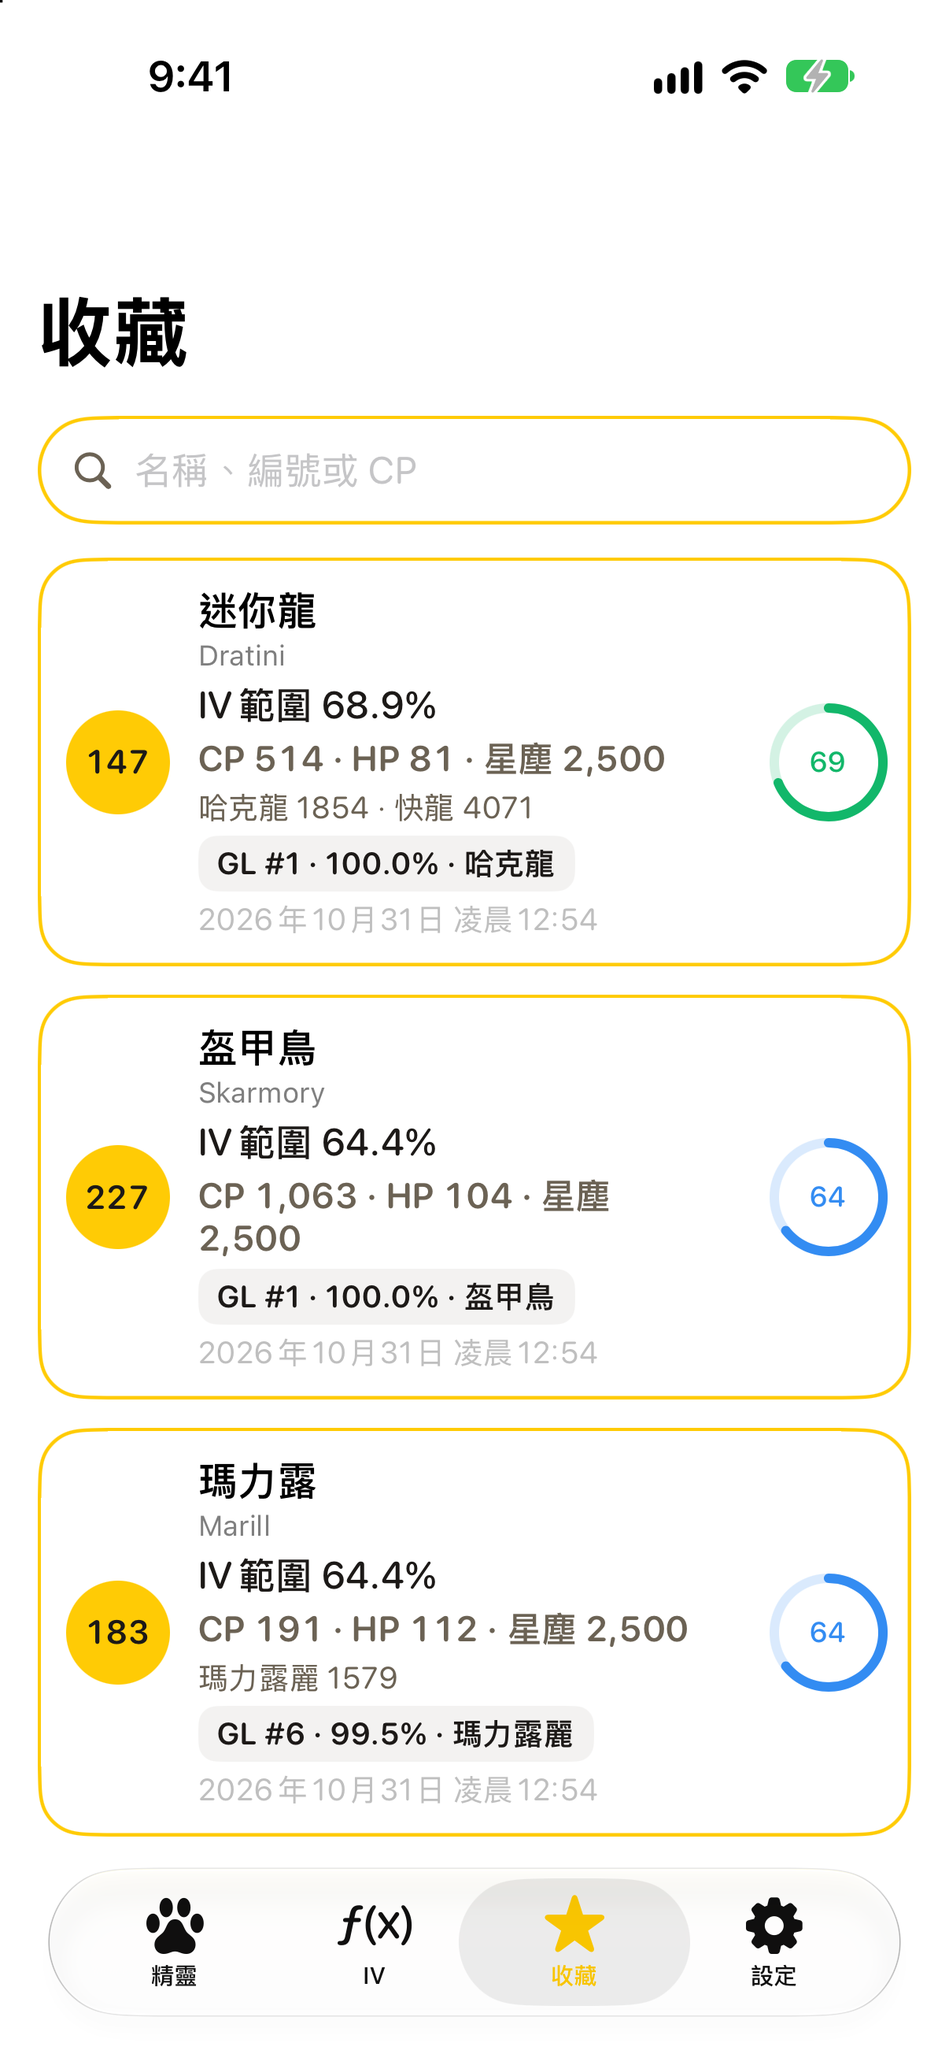
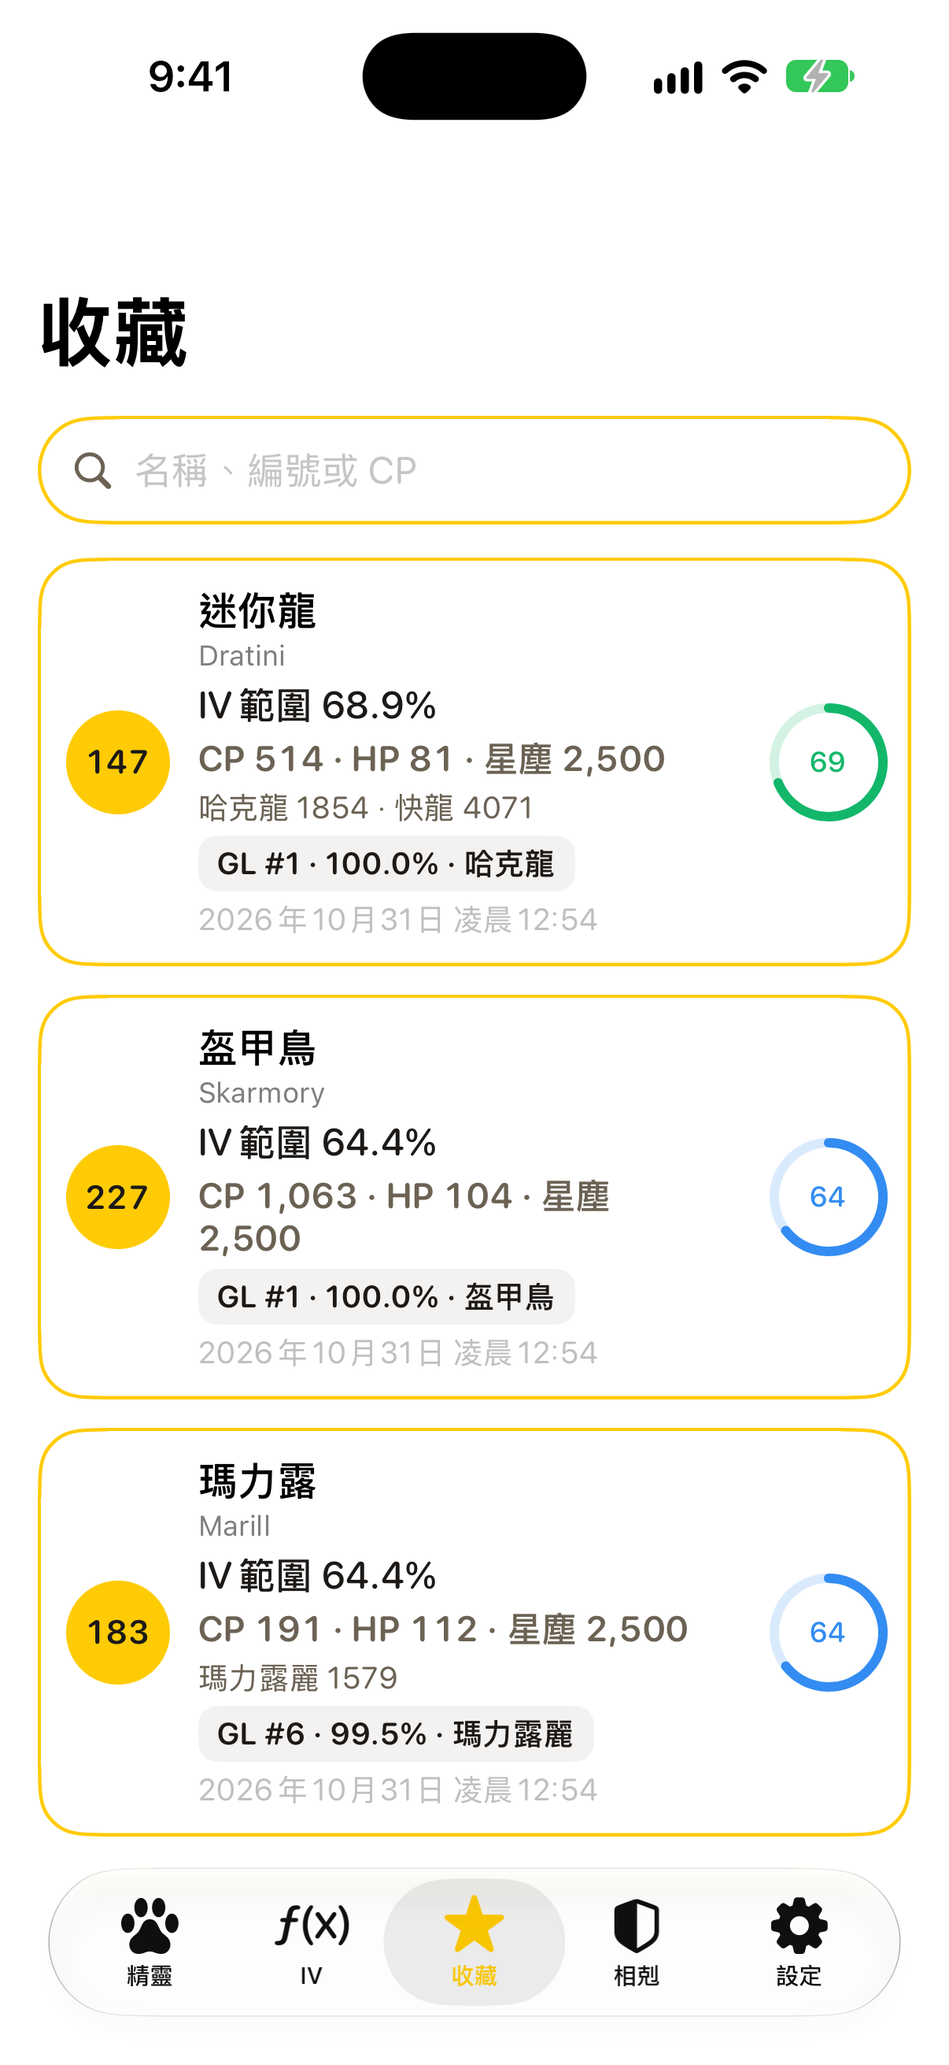
官網配合 1.3.0：相剋分頁、屬性圖示與五個 Tab
介紹頁與操作手冊新增相剋分頁（查對手、我的隊伍）與屬性圖示說明，Tab 改為五個；
隱私權頁補相剋分頁的原生廣告與對戰隊伍只存在裝置；store/ 與 manual/ 截圖換成 1.3.0 版型。

diff --git a/index.html b/index.html
@@ -125,18 +125,19 @@
       <h2>產品介紹</h2>
       <ul>
         <li><strong>摘要截圖</strong>：一次一張。讀得到名稱、CP、HP 與強化星塵就直接顯示結果，等級 41 以上（強化星塵 11,000 起）與強化過的半級也算得出來。圖裡缺這些資料時會提示錯誤，不會寫進歷史。</li>
-        <li><strong>四個 Tab</strong>：底部是「精靈」（圖鑑）、「IV」、「收藏」、「設定」。圖示分別是足跡、函數、星星與齒輪。</li>
+        <li><strong>五個 Tab</strong>：底部是「精靈」（圖鑑）、「IV」、「收藏」、「相剋」、「設定」。圖示分別是足跡、函數、星星、盾牌與齒輪。</li>
         <li><strong>圖鑑</strong>：用編號、中文或英文名搜尋，點牌卡看三圍、屬性、進化、技能，以及各等級 CP、HP。進化後等級 50 的最大 CP、HP 只作參考。圖鑑資料可從 Firebase Storage 的 <code>catalog/species.json</code> 更新；離線時用 App 內建備份。</li>
         <li><strong>訓練師等級</strong>：可選，在 IV 頁左上角或「設定」分頁調整。用來對齊摘要上的等級範圍，不進入 CP 公式。沒設定時，同一組星塵仍可能對應多個等級。</li>
         <li><strong>結果</strong>：百分比環、攻擊／防禦／體力 IV、等級滑桿與下一步建議。可開啟好夥伴加成，看該等級加成後的 CP、HP。範圍很寬時圓環會顯示「?」。</li>
         <li><strong>PvP</strong>：結果頁列出小小盃、超級、高級、大師聯盟的名次（Rank）與佔 Rank 1 的百分比，進化鏈每一階都算。點一組 IV 可看最佳等級、CP、實際攻擊，以及養到該等級需要的星塵、糖果與 XL 糖果，也能一鍵複製改名字串。收藏牌卡會標出最佳名次。</li>
+        <li><strong>相剋</strong>：對戰時查屬性。「查對手」選 1–2 個屬性或搜尋名字，看該用什麼打、別用什麼、牠的招式剋誰；「我的隊伍」每個聯盟存 3 隻，一眼看到每隻的弱點與抗性。屬性都附上圖示，水、冰、龍這類相似屬性也好分辨。</li>
         <li><strong>設定</strong>：PvP 等級上限（40／50／51）、IV 保底、預設聯盟、改名格式與訓練師等級。</li>
-        <li><strong>本機資料</strong>：歷史只存辨識結果與相簿識別碼，<strong>不存截圖檔</strong>。收藏只存你點下的那一組 IV。</li>
-        <li><strong>廣告</strong>：IV 頁在「幫精靈評價」下方可能出現原生廣告，結果頁底部可能有橫幅。圖鑑與收藏第一層沒有廣告。第一次會問相簿權限；廣告可能再問追蹤許可（ATT），拒絕後改為非個人化。細節見<a href="privacy.html">隱私權</a>。</li>
+        <li><strong>本機資料</strong>：歷史只存辨識結果與相簿識別碼，<strong>不存截圖檔</strong>。收藏只存你點下的那一組 IV。對戰隊伍只存種類與招式選擇。</li>
+        <li><strong>廣告</strong>：IV 頁在「幫精靈評價」下方可能出現原生廣告，結果頁底部可能有橫幅，相剋分頁最下方可能有一張原生廣告。圖鑑與收藏第一層、設定沒有廣告。第一次會問相簿權限；廣告可能再問追蹤許可（ATT），拒絕後改為非個人化。細節見<a href="privacy.html">隱私權</a>。</li>
       </ul>
 
       <h2>操作手冊</h2>
-      <p>下面的圖鑑、IV、結果與收藏是不含遊戲內畫面的介面示意。選圖權限、訓練師等級、PvP 與設定是模擬器畫面。實機字級可能略有不同。</p>
+      <p>下面的圖鑑、IV、結果與收藏是不含遊戲內畫面的介面示意。選圖權限、訓練師等級、PvP、相剋與設定是模擬器畫面。實機字級可能略有不同。</p>
       <nav class="toc" aria-label="手冊目次">
         <ol>
           <li><a href="#zh-dex">圖鑑</a></li>
@@ -144,21 +145,22 @@
           <li><a href="#zh-trainer">訓練師等級</a></li>
           <li><a href="#zh-results">結果與收藏</a></li>
           <li><a href="#zh-pvp">PvP 名次與改名</a></li>
+          <li><a href="#zh-matchup">相剋</a></li>
           <li><a href="#zh-settings">設定</a></li>
           <li><a href="#zh-history">歷史與相簿排除</a></li>
         </ol>
       </nav>
 
       <h3 id="zh-dex">1. 圖鑑</h3>
-      <p>點底部「精靈」。搜尋框可填編號、中文或英文名。點一列進入詳細頁，可看三圍、屬性、進化鏈、技能，並用滑桿看各等級的 CP、HP 範圍。進化後等級 50 的最大 CP、HP 標在進化區，只供對照。圖鑑頁不計算 IV，也沒有廣告。</p>
+      <p>點底部「精靈」。搜尋框可填編號、中文或英文名。點一列進入詳細頁，可看三圍、屬性與相剋、進化鏈、技能，並用滑桿看各等級的 CP、HP 範圍。進化後等級 50 的最大 CP、HP 標在進化區，只供對照。圖鑑頁不計算 IV，也沒有廣告。</p>
       <div class="manual-shots-row">
         <figure class="manual-shot">
           <img src="store/asc-zh-pokedex.jpg" width="402" height="874" alt="用編號或名字找：精靈圖鑑列表">
           <figcaption>圖鑑列表：用編號或名字找。</figcaption>
         </figure>
         <figure class="manual-shot">
-          <img src="store/asc-zh-detail.jpg" width="402" height="874" alt="看三圍、最高 CP 和屬性">
-          <figcaption>詳細頁：三圍、最高 CP／HP 與屬性。</figcaption>
+          <img src="store/asc-zh-detail.jpg" width="402" height="874" alt="看技能與屬性相剋">
+          <figcaption>詳細頁：技能與屬性相剋，屬性都有圖示。</figcaption>
         </figure>
       </div>
 
@@ -225,14 +227,27 @@
         <figcaption>收藏：牌卡標出最佳名次。</figcaption>
       </figure>
 
-      <h3 id="zh-settings">6. 設定</h3>
+      <h3 id="zh-matchup">6. 相剋</h3>
+      <p>點底部「相剋」。「查對手」選對手的 1–2 個屬性，或在上方搜尋名字（也可打英文名或編號），下方會列出該用什麼屬性打（倍率越高越好）、別用哪些屬性，以及牠自己屬性的招式剋誰。「我的隊伍」每個聯盟存一組 3 隻，卡片列出每隻的弱點、抗性與招式屬性；可在收藏長按、或結果頁 PvP 區塊加入。查對手時若有隊員會被剋，也會一起提示。</p>
+      <div class="manual-shots-row">
+        <figure class="manual-shot">
+          <img src="manual/manual-matchup-opponent-zh.png" width="402" height="874" alt="相剋分頁：查對手，選了水與地面">
+          <figcaption>查對手：水＋地面要用草打，別用電、火、毒、岩石、鋼。</figcaption>
+        </figure>
+        <figure class="manual-shot">
+          <img src="manual/manual-matchup-team-zh.png" width="402" height="874" alt="相剋分頁：我的隊伍">
+          <figcaption>我的隊伍：每隻的弱點、抗性與招式屬性。</figcaption>
+        </figure>
+      </div>
+
+      <h3 id="zh-settings">7. 設定</h3>
       <p>點底部「設定」。等級上限決定排名時最多養到幾級：40 不用 XL 糖果，50 用 XL 糖果，51 是正港好夥伴再加 1 級。IV 保底排除不可能出現的組合，例如團體戰、孵蛋、研究的 IV 至少是 10。預設聯盟決定結果頁與收藏先顯示哪一個聯盟。這些設定會同時套用到結果頁與收藏。</p>
       <figure class="manual-shot">
         <img src="manual/manual-settings-zh.png" width="402" height="874" alt="設定分頁">
         <figcaption>設定分頁：等級上限、IV 保底、預設聯盟、改名格式。</figcaption>
       </figure>
 
-      <h3 id="zh-history">7. 歷史與相簿排除</h3>
+      <h3 id="zh-history">8. 歷史與相簿排除</h3>
       <ul>
         <li>計算成功後，這張照片的相簿識別碼會記在歷史。下次開選圖格，<strong>同一張摘要會被隱藏</strong>。</li>
         <li>在 IV 頁左滑可刪一筆歷史。右上角垃圾桶會先詢問，再清除全部歷史，<strong>不會刪收藏</strong>。刪掉之後，那張照片會重新出現在選圖格。</li>
@@ -246,18 +261,19 @@
       <h2>About the app</h2>
       <ul>
         <li><strong>One screenshot</strong>: If the name, CP, HP, and power-up stardust are readable, the result opens immediately, including level 41 and up (11,000 stardust and more) and powered-up half levels. A missing value shows an error and is not saved to history.</li>
-        <li><strong>Four tabs</strong>: Dex, IV, Saved, and Settings. The icons are a paw, a function, a star, and a gear.</li>
+        <li><strong>Five tabs</strong>: Dex, IV, Saved, Matchups, and Settings. The icons are a paw, a function, a star, a shield, and a gear.</li>
         <li><strong>Dex</strong>: Search by number or name, then open a page for base stats, type, evolution, moves, and CP/HP by level. Level-50 max CP and HP after evolution are reference figures. Catalog data can refresh from Firebase Storage (<code>catalog/species.json</code>) and uses the copy bundled in the app when offline.</li>
         <li><strong>Trainer level</strong>: Optional, set on the IV tab or in Settings. It lines up the level range on the summary and is not part of the CP formula. With it unset, one stardust cost can still match more than one level.</li>
         <li><strong>Results</strong>: A percent ring, attack / defense / HP IVs, a level slider, and a next step. Buddy boost shows that level’s boosted CP and HP. A wide range shows “?” in the ring.</li>
         <li><strong>PvP</strong>: Results list the rank and percent of rank 1 in Little Cup, Great, Ultra, and Master League for every evolution stage. Tap an IV set to see its best level, CP, attack, and the Stardust, Candy, and XL Candy needed to get there, and copy a nickname in one tap. Saved cards show the best rank.</li>
+        <li><strong>Matchups</strong>: Check types during a battle. In Opponent, pick one or two types or search a name to see what hits it hard, what to avoid, and what its own moves hit. In My Team, save three members per league and see each one’s weaknesses and resistances at a glance. Every type has an icon, so similar types such as Water, Ice, and Dragon are easy to tell apart.</li>
         <li><strong>Settings</strong>: PvP level cap (40 / 50 / 51), IV floor, default league, nickname format, and trainer level.</li>
-        <li><strong>On this device</strong>: History stores the reading and a photo identifier, <strong>not the image file</strong>. Saved stores only the IV set you starred.</li>
-        <li><strong>Ads</strong>: The IV tab may show a native ad under Appraise, and the results screen may show a banner. The Dex list, Dex detail, and Saved list do not. The app asks for photo access, and ads may ask for tracking permission (ATT); declining uses non-personalized ads. Details are on the <a href="privacy.html">Privacy</a> page.</li>
+        <li><strong>On this device</strong>: History stores the reading and a photo identifier, <strong>not the image file</strong>. Saved stores only the IV set you starred. Battle teams store only the species and move choices.</li>
+        <li><strong>Ads</strong>: The IV tab may show a native ad under Appraise, and the results screen may show a banner, and the bottom of the Matchups tab may show one native ad. The Dex list, Dex detail, Saved list, and Settings do not. The app asks for photo access, and ads may ask for tracking permission (ATT); declining uses non-personalized ads. Details are on the <a href="privacy.html">Privacy</a> page.</li>
       </ul>
 
       <h2>User guide</h2>
-      <p>The Dex, IV, results, and Saved pictures are interface mockups with no in-game artwork. The photo-permission, trainer-level, PvP, and Settings pictures are simulator screens. Type size may differ on a device.</p>
+      <p>The Dex, IV, results, and Saved pictures are interface mockups with no in-game artwork. The photo-permission, trainer-level, PvP, Matchups, and Settings pictures are simulator screens. Type size may differ on a device.</p>
       <nav class="toc" aria-label="Guide contents">
         <ol>
           <li><a href="#en-dex">Dex</a></li>
@@ -265,6 +281,7 @@
           <li><a href="#en-trainer">Trainer level</a></li>
           <li><a href="#en-results">Results and Saved</a></li>
           <li><a href="#en-pvp">PvP ranks and nicknames</a></li>
+          <li><a href="#en-matchup">Matchups</a></li>
           <li><a href="#en-settings">Settings</a></li>
           <li><a href="#en-history">History and the photo grid</a></li>
         </ol>
@@ -278,8 +295,8 @@
           <figcaption>Catalog: find an entry by number or name.</figcaption>
         </figure>
         <figure class="manual-shot">
-          <img src="store/asc-en-detail.jpg" width="402" height="874" alt="See base stats, max CP, and type">
-          <figcaption>Detail: base stats, max CP, and type.</figcaption>
+          <img src="store/asc-en-detail.jpg" width="402" height="874" alt="See moves and type matchups">
+          <figcaption>Details: moves and type matchups, with an icon for every type.</figcaption>
         </figure>
       </div>
 
@@ -346,14 +363,27 @@
         <figcaption>Saved: each card shows the best rank.</figcaption>
       </figure>
 
-      <h3 id="en-settings">6. Settings</h3>
+      <h3 id="en-matchup">6. Matchups</h3>
+      <p>Open the Matchups tab. In Opponent, pick one or two of the opponent’s types, or search a name at the top (English name or number also works). Below you see which types hit it hard (higher is better), which to avoid, and what moves of its own types hit. In My Team, save a team of three for each league; each card lists weaknesses, resistances, and move types. Add members from a saved entry’s long-press menu or the PvP section of a result. When an opponent hits one of your members hard, the lookup says so.</p>
+      <div class="manual-shots-row">
+        <figure class="manual-shot">
+          <img src="manual/manual-matchup-opponent-en.png" width="402" height="874" alt="Matchups tab: Opponent with Water and Ground picked">
+          <figcaption>Opponent: hit Water + Ground with Grass; avoid Electric, Fire, Poison, Rock, and Steel.</figcaption>
+        </figure>
+        <figure class="manual-shot">
+          <img src="manual/manual-matchup-team-en.png" width="402" height="874" alt="Matchups tab: My Team">
+          <figcaption>My Team: weaknesses, resistances, and move types for each member.</figcaption>
+        </figure>
+      </div>
+
+      <h3 id="en-settings">7. Settings</h3>
       <p>Open the Settings tab. The level cap is how far a set is powered up when ranking: 40 uses no XL Candy, 50 uses XL Candy, and 51 adds the Best Buddy level. The IV floor leaves out sets that cannot occur, such as raid, egg, and research Pokémon, which have at least 10 in each IV. The default league is the one results and Saved show first. These settings apply to both results and Saved.</p>
       <figure class="manual-shot">
         <img src="manual/manual-settings-en.png" width="402" height="874" alt="Settings tab">
         <figcaption>Settings: level cap, IV floor, default league, and nickname format.</figcaption>
       </figure>
 
-      <h3 id="en-history">7. History and the photo grid</h3>
+      <h3 id="en-history">8. History and the photo grid</h3>
       <ul>
         <li>After a successful calculation, that photo’s library identifier is stored. The same summary is <strong>hidden in the picker grid</strong> the next time you choose a picture.</li>
         <li>Swipe a history row to delete it. The trash button asks first, then clears all history and <strong>does not delete Saved</strong>. After either deletion, that photo shows in the grid again.</li>

diff --git a/privacy.html b/privacy.html
@@ -77,16 +77,16 @@
       <h2>截圖與暫存記憶體</h2>
       <p>您選擇的精靈摘要截圖僅用於當次上傳與辨識流程，處理期間保留在裝置記憶體中；離開該流程或關閉相關畫面後即釋放，本 App 不會將照片存入相簿或長期儲存空間。</p>
       <h2>歷史紀錄</h2>
-      <p>本機歷史僅保存辨識與計算結果（例如種類、CP、HP、IV 組合等），<strong>不保存</strong>摘要截圖影像。</p>
+      <p>本機歷史僅保存辨識與計算結果（例如種類、CP、HP、IV 組合等），<strong>不保存</strong>摘要截圖影像。相剋分頁的對戰隊伍只保存種類與招式選擇，同樣只留在您的裝置。</p>
       <h2>圖鑑資料（Firebase Storage）</h2>
       <p>物種名稱與三圍等<strong>數值 JSON</strong>會從 Firebase Storage（bucket：<code>goiv-app.firebasestorage.app</code>）下載以支援計算。該資料不含角色圖或官方立繪，本 App 也不從外部圖庫載入圖片。</p>
       <h2>當機報告（Firebase Crashlytics）</h2>
       <p>Firebase Crashlytics 只收集<strong>未捕捉的當機</strong>與除錯資訊，協助修復穩定性問題。不會上傳螢幕截圖，也不會將 CP、HP、種類寫進自訂紀錄。</p>
       <h2>廣告（Google AdMob）</h2>
-      <p>IV 頁在「幫精靈評價」下方可能顯示原生廣告，結果頁底部可能顯示橫幅廣告。圖鑑第一層、圖鑑詳細頁與收藏第一層沒有廣告。App 會先透過 Apple 的 App Tracking Transparency 詢問追蹤許可；若您拒絕，廣告請求將以<strong>非個人化</strong>方式處理。</p>
+      <p>IV 頁在「幫精靈評價」下方可能顯示原生廣告，結果頁底部可能顯示橫幅廣告，相剋分頁最下方可能顯示一張原生廣告。圖鑑第一層、圖鑑詳細頁、收藏第一層與設定沒有廣告。App 會先透過 Apple 的 App Tracking Transparency 詢問追蹤許可；若您拒絕，廣告請求將以<strong>非個人化</strong>方式處理。</p>
       <h2>我們不出售個人資料</h2>
       <p>我們不會出售您的個人資料。</p>
-      <p><em>最後更新：2026-10-31。政策隨 App 功能調整時可能更新，請以本頁最新內容為準。</em></p>
+      <p><em>最後更新：2026-11-09。政策隨 App 功能調整時可能更新，請以本頁最新內容為準。</em></p>
     </section>
     <section id="en" lang="en" hidden>
       <p>This policy describes how GO IV Calculator (“the app”) handles information. By using the app, you acknowledge the practices below.</p>
@@ -95,16 +95,16 @@
       <h2>Screenshots and memory</h2>
       <p>Summary screenshots you select are used only for the current upload and recognition flow, held in device memory during processing, and released when you leave that flow or dismiss the related screens. The app does not save photos to your photo library or long-term storage.</p>
       <h2>History</h2>
-      <p>On-device history stores recognition and calculation results only (e.g., species, CP, HP, IV sets). It does <strong>not</strong> store summary screenshot images.</p>
+      <p>On-device history stores recognition and calculation results only (e.g., species, CP, HP, IV sets). It does <strong>not</strong> store summary screenshot images. Battle teams in the Matchups tab store only the species and move choices, and also stay on your device.</p>
       <h2>Species data (Firebase Storage)</h2>
       <p>Numeric JSON (names, base stats, etc.) is downloaded from Firebase Storage (bucket: <code>goiv-app.firebasestorage.app</code>) to power calculations. This data contains no character art or official artwork, and the app does not load images from an external image library.</p>
       <h2>Crash reports (Firebase Crashlytics)</h2>
       <p>Firebase Crashlytics collects only <strong>uncaught crashes</strong> and debugging information to improve stability. Screenshots are not uploaded, and CP, HP, or species are not sent as custom log fields.</p>
       <h2>Advertising (Google AdMob)</h2>
-      <p>The IV tab may show a native ad under Appraise, and the results screen may show a banner at the bottom. The Dex list, Dex detail, and Saved list do not show ads. The app asks for tracking permission via Apple’s App Tracking Transparency; if you decline, ad requests are handled in a <strong>non-personalized</strong> manner.</p>
+      <p>The IV tab may show a native ad under Appraise, the results screen may show a banner at the bottom, and the bottom of the Matchups tab may show one native ad. The Dex list, Dex detail, Saved list, and Settings do not show ads. The app asks for tracking permission via Apple’s App Tracking Transparency; if you decline, ad requests are handled in a <strong>non-personalized</strong> manner.</p>
       <h2>We do not sell personal data</h2>
       <p>We do not sell your personal information.</p>
-      <p><em>Last updated: 2026-10-31. This policy may change as app features evolve; refer to this page for the current version.</em></p>
+      <p><em>Last updated: 2026-11-09. This policy may change as app features evolve; refer to this page for the current version.</em></p>
     </section>
     <footer>
       <p id="footer-zh">GO IV 計算 — 隱私權政策</p>
